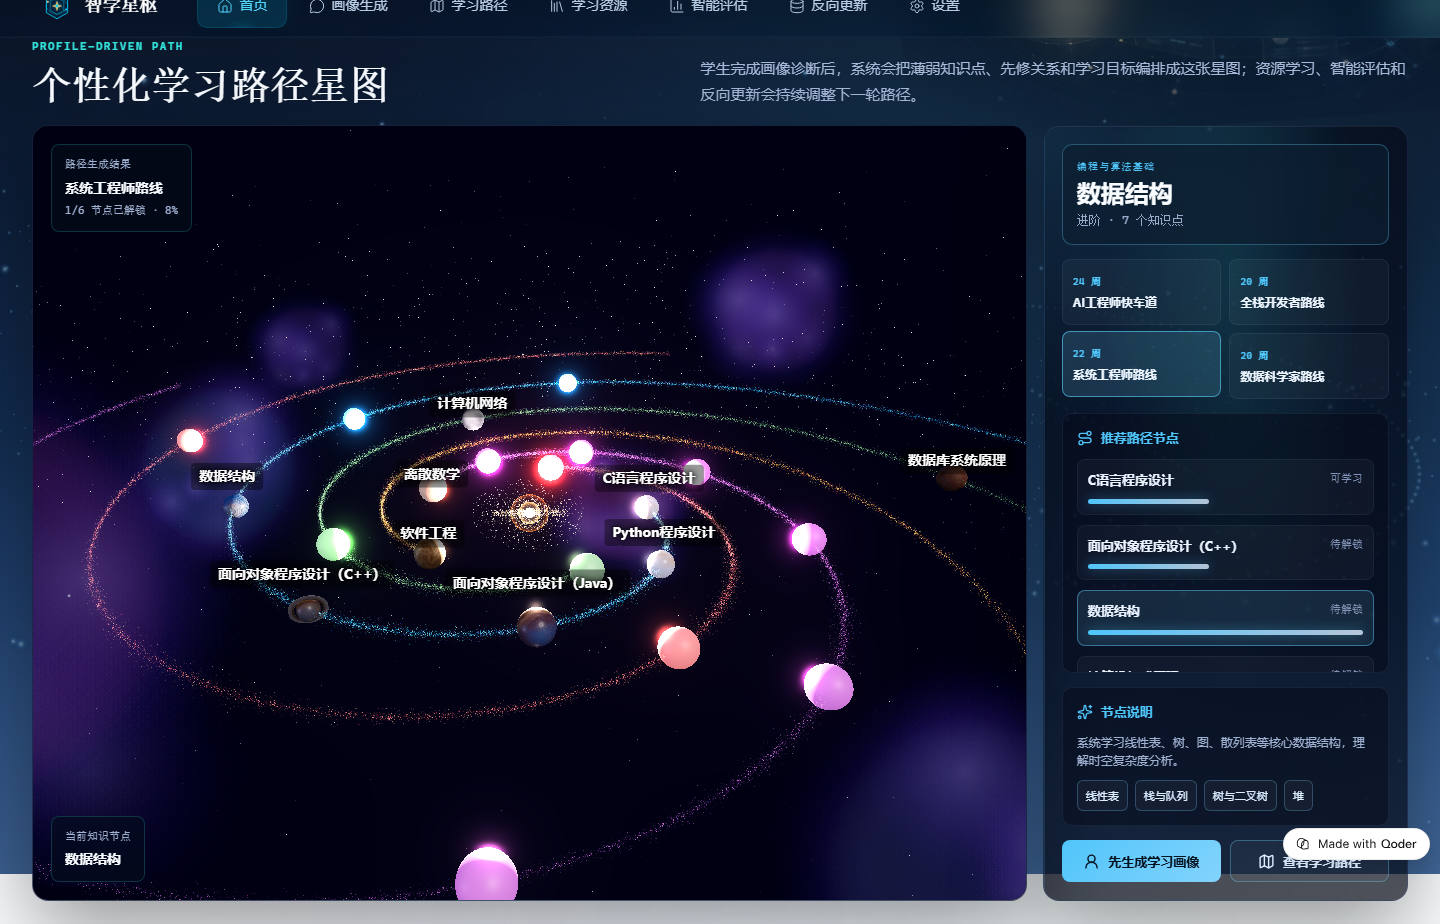
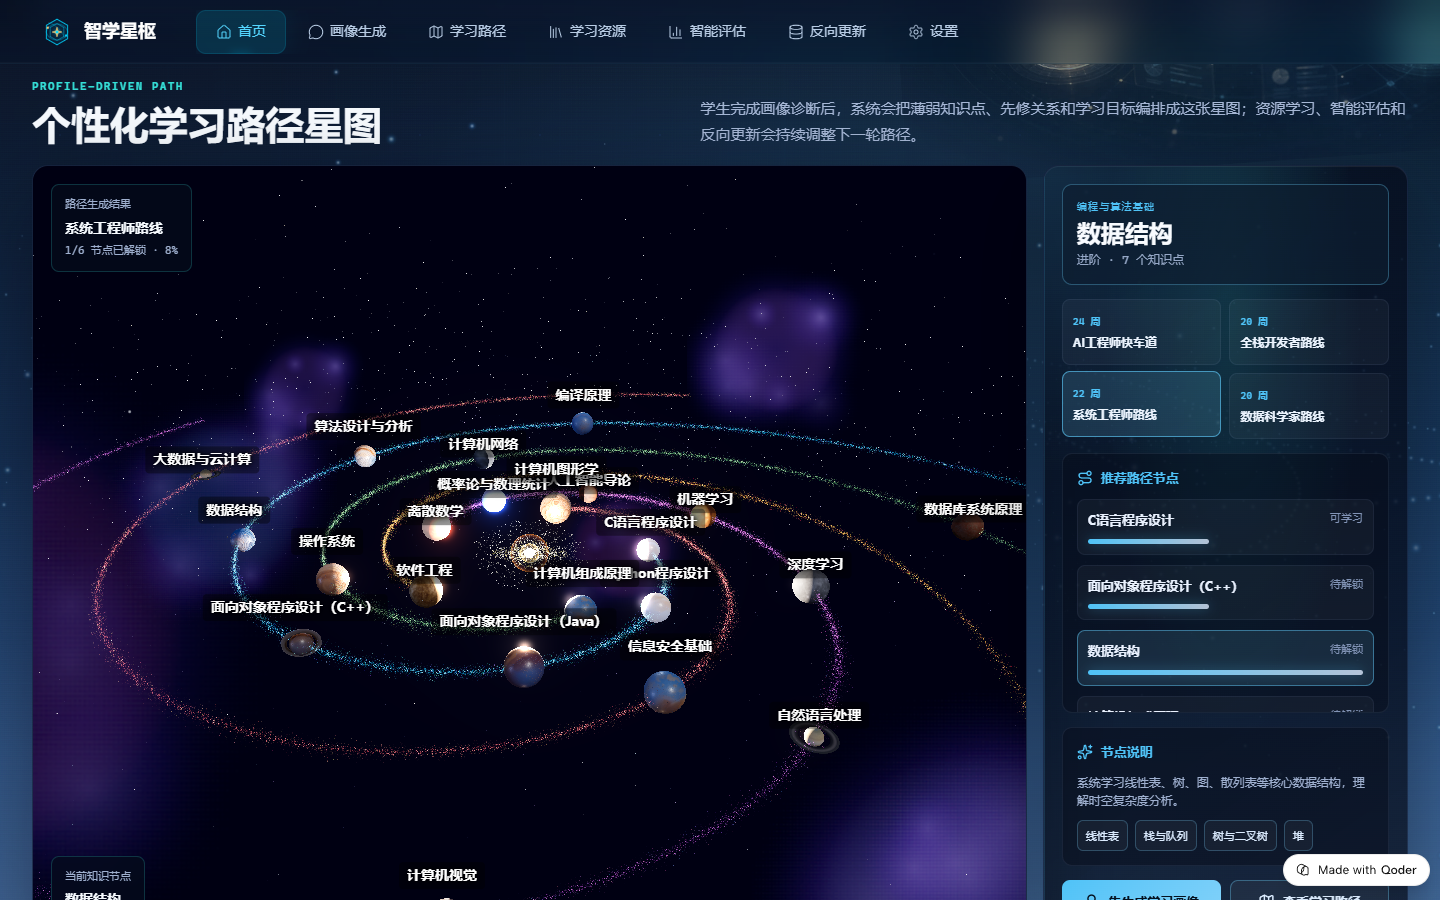
chore(astripath): refresh galaxy screenshot after planet-model fix
Retake the homepage star-map screenshot from the live site now that all
24 planet models load (no placeholder spheres), and record the CDN swap
in the forum-post archive and submission checklist.

diff --git a/astripath/submission/FORUM_POST.md b/astripath/submission/FORUM_POST.md
@@ -4,6 +4,7 @@
 > 标签：实验代码、天池大赛；关联比赛：2026 Qoder 高校创造力大赛。
 > 本文件为存档源稿；线上版图片链接已替换为天池 CDN（userimg/1095280995893/2026-11-08/）。
 > 2026-11-08 增补「可视化与核心创新」一节（中枢 / 星图 / 星座 / 知识树 / 反向更新），按线上实际版本截图；已通过编辑器更新，帖内共 16 张天池 CDN 图片。
+> 2026-11-17 修复知识宇宙缺失的 15 个星球模型并重新部署后，重拍「个性化学习路径星图」截图替换旧占位光球画面（新 CDN：userimg/1095280995893/2026-11-17/2WcFe4PuTXXgnSXr.png），帖内仍 16 张图。
 > 待办：确认刘宏伟完成天池实名认证 + 阿里云大学生认证；如有社交分享链接可编辑帖子补充。
 
 ## 标题

diff --git a/astripath/submission/SUBMISSION_CHECKLIST.md b/astripath/submission/SUBMISSION_CHECKLIST.md
@@ -28,6 +28,7 @@
 - [x] AI 生成内容标识保留（演示模式标注 + 引用依据 + 掌握度演示评估值声明）
 - [x] Qoder 使用证据完整（`docs/QODER_USAGE.md` + evidence/ 目录 + 帖子内嵌截图）
 - [x] 作品介绍帖子完成并已发布（`submission/FORUM_POST.md` → https://tianchi.aliyun.com/forum/post/1095688）
+- [x] 知识宇宙星球模型完整（2026-11-17 补回 15 个被裁剪的模型 + 注册 meshopt 解码器，线上 24/24 加载、无占位光球；dist 44MB；星图截图已重拍并替换进帖子）
 
 ## 三、提交前人工待办
 
